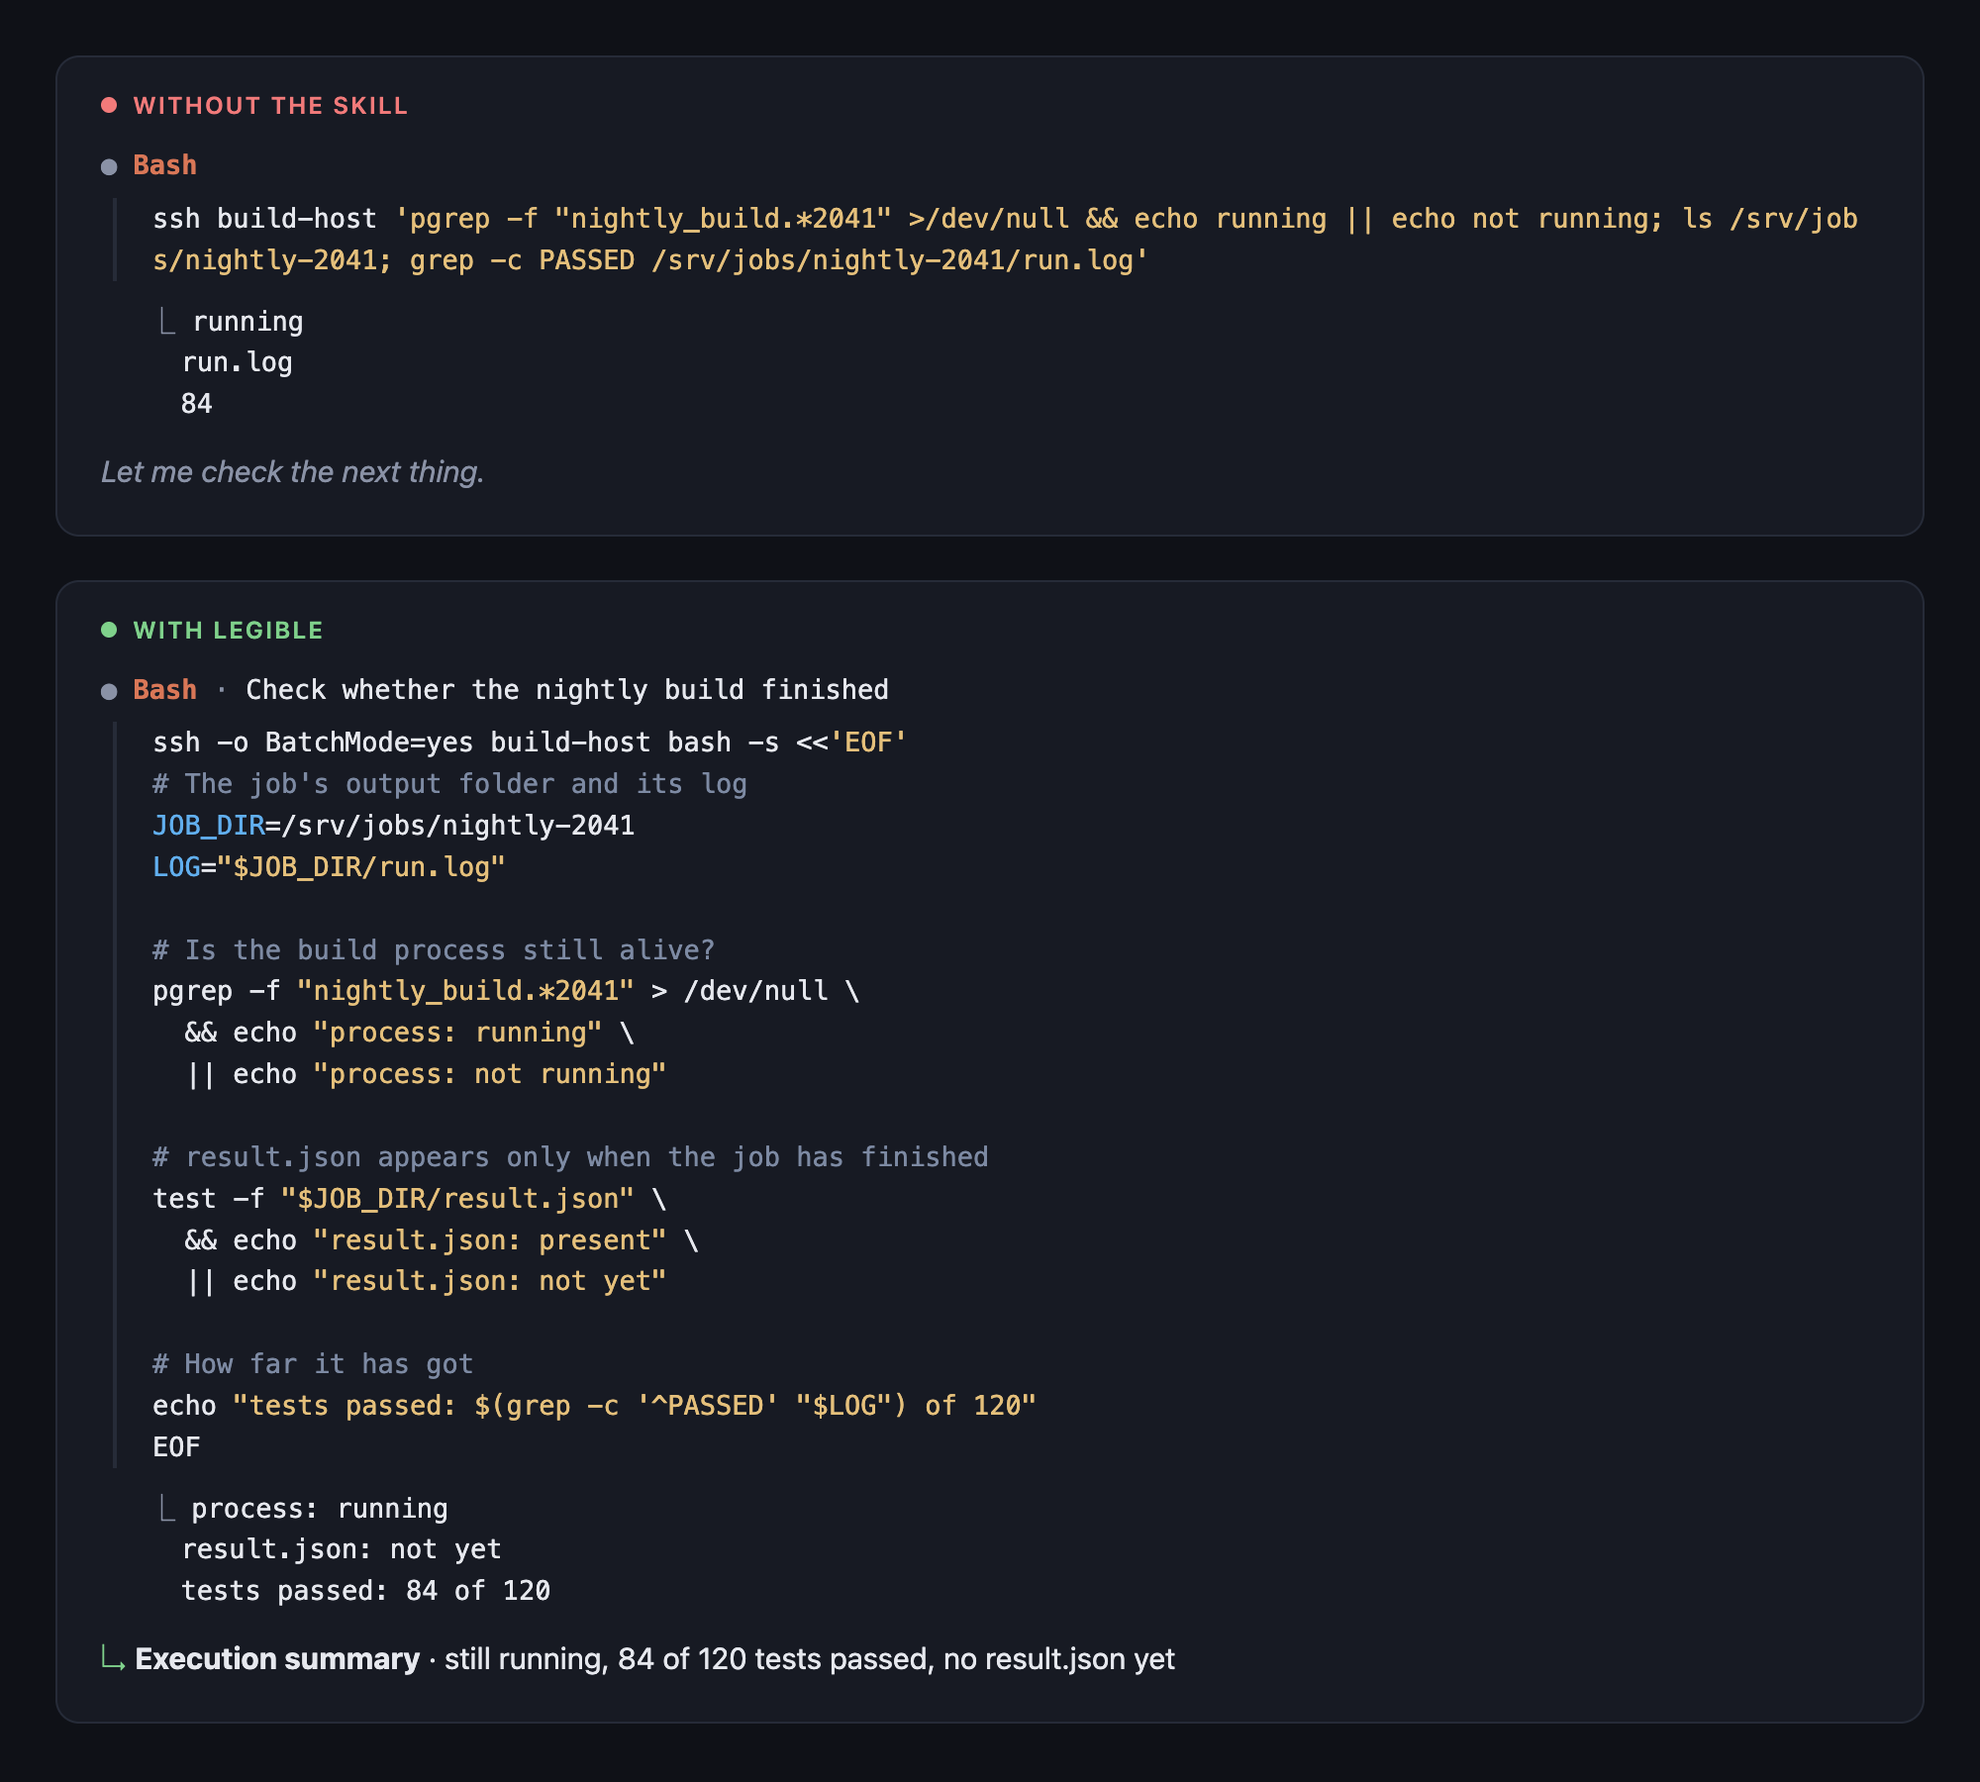
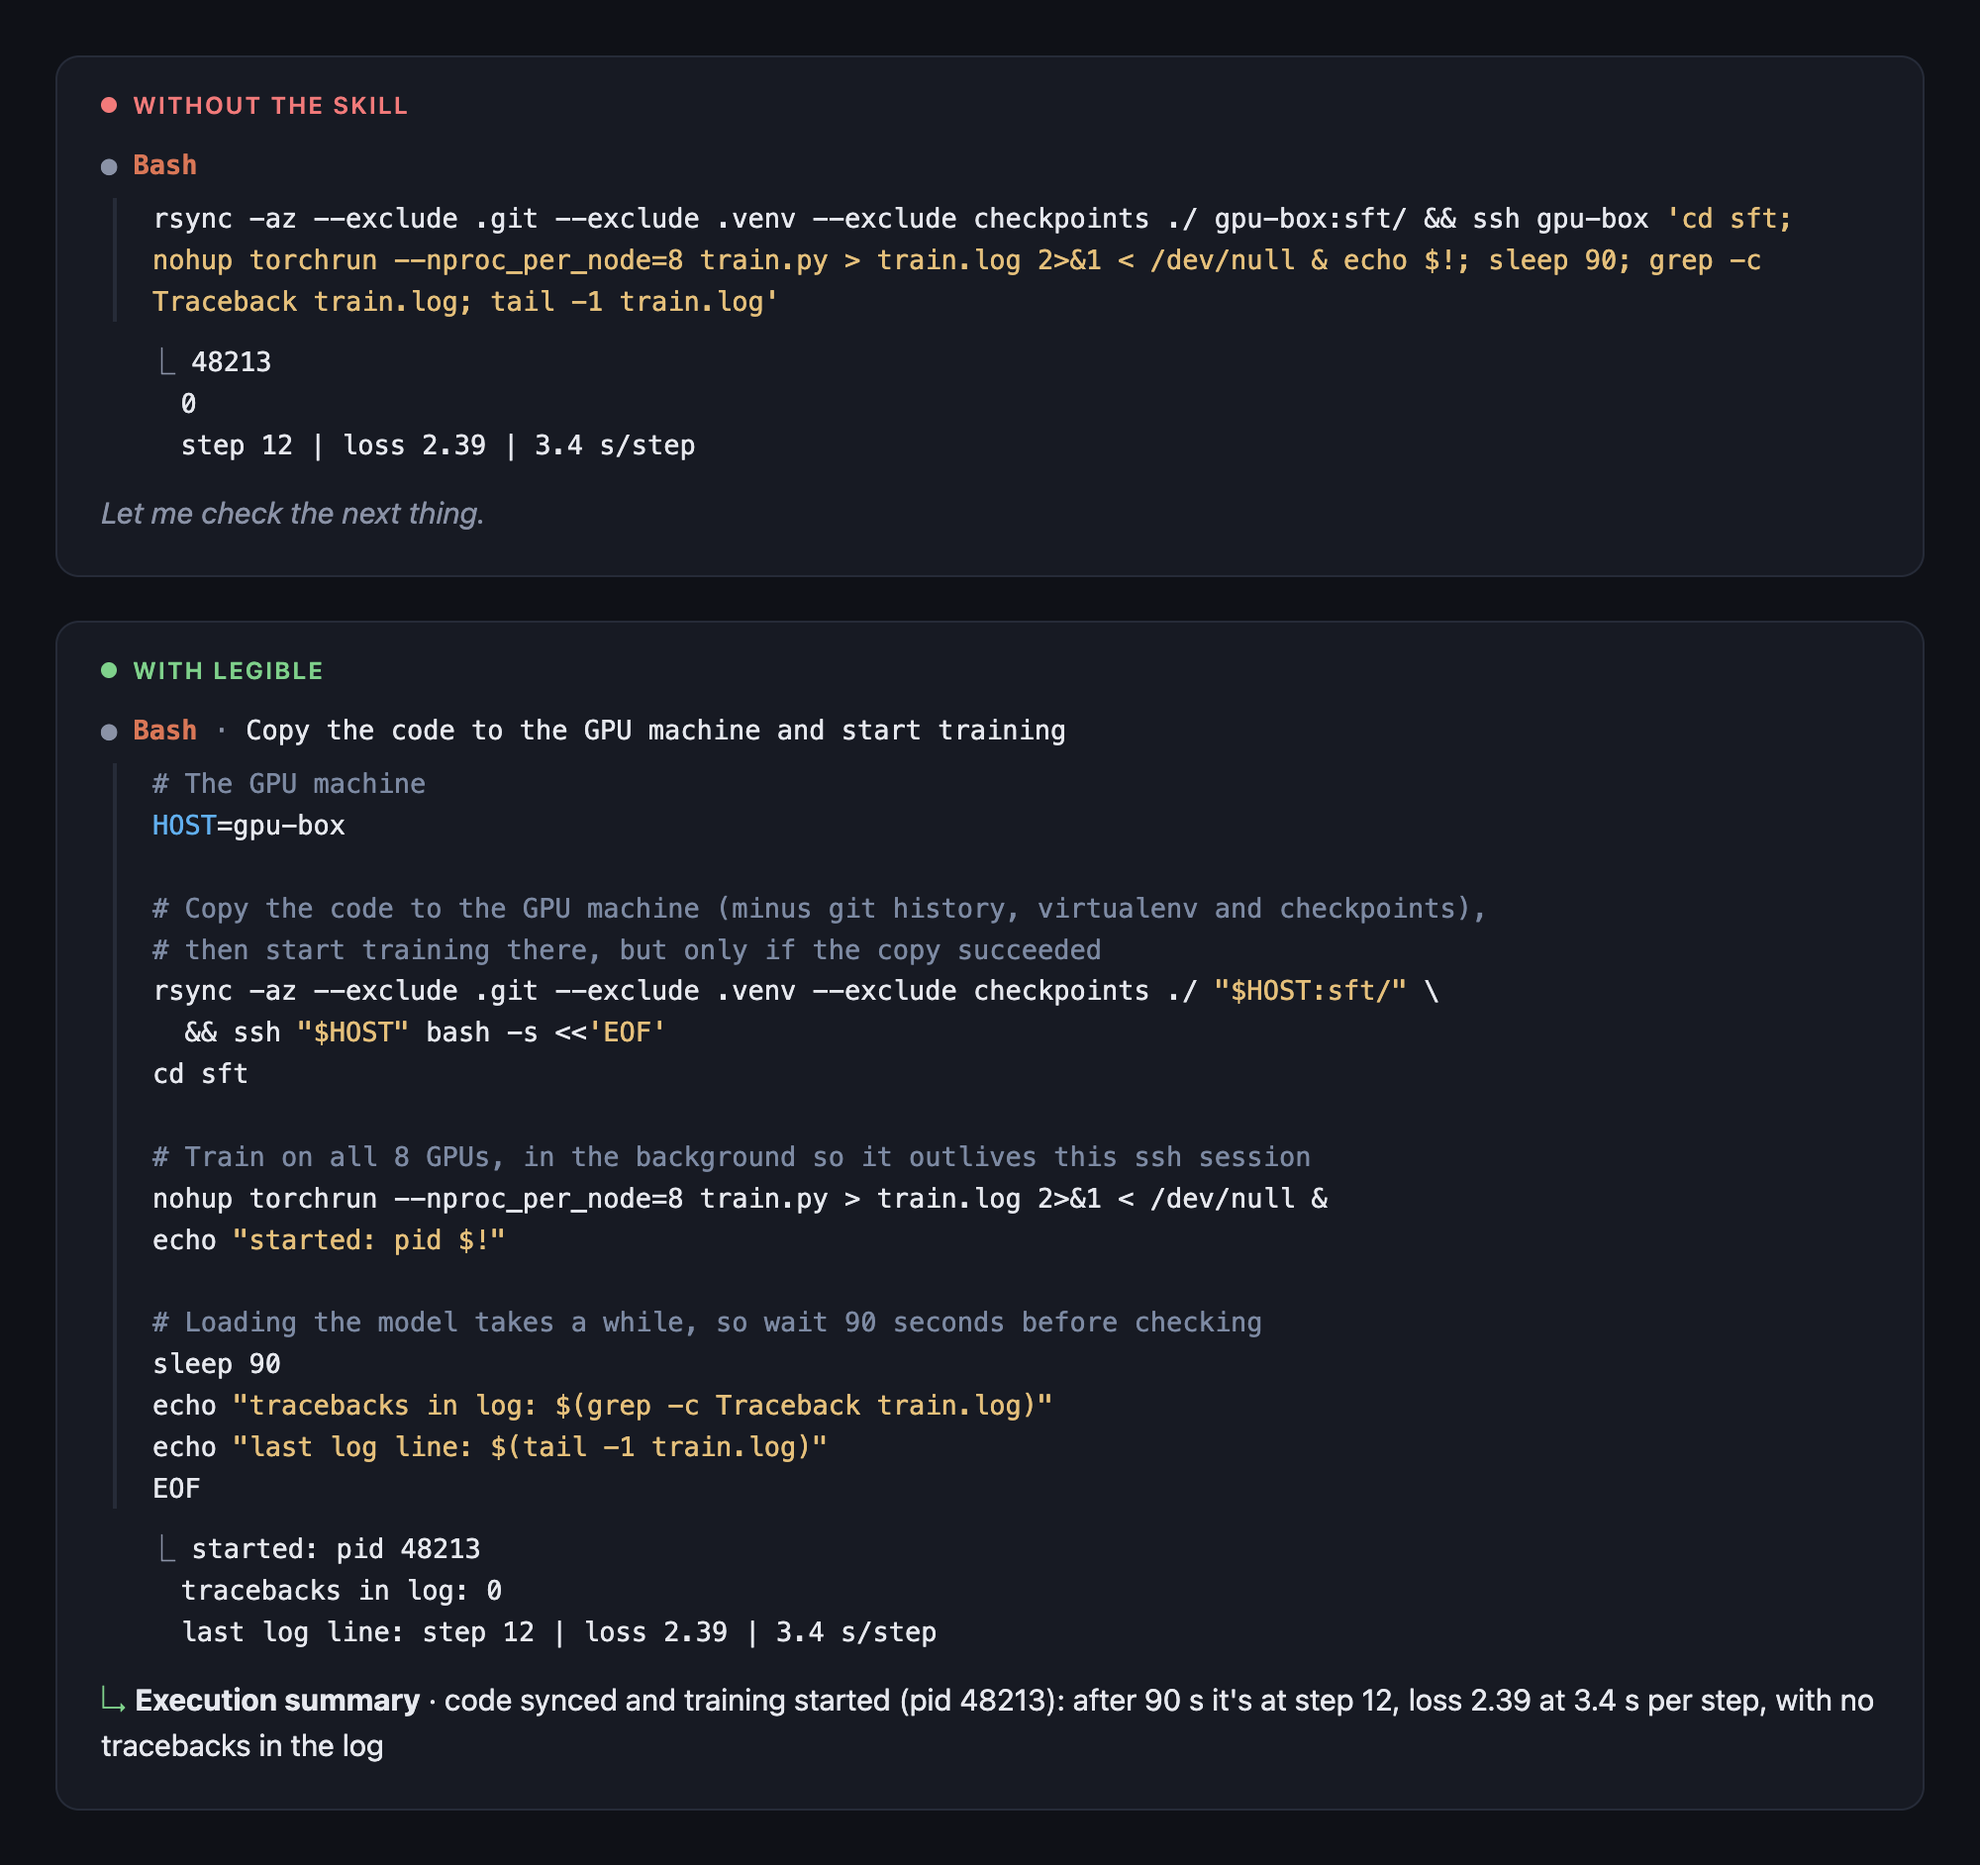
Use a training-run example in the README, skill and image
Replace the nightly-build status check with one command that copies
training code to a GPU machine, starts torchrun in the background and
checks on it. Both versions run the same commands; they were run
against a real host with a stand-in trainer to confirm the output.

diff --git a/assets/before-after.html b/assets/before-after.html
@@ -54,7 +54,7 @@
   pre {
     margin: 0;
     white-space: pre-wrap;
-    word-break: break-all;
+    overflow-wrap: anywhere;
     font: inherit;
   }
   .cmd { padding-left: 18px; border-left: 2px solid var(--line); margin: 0 0 10px 6px; }
@@ -80,38 +80,38 @@
 <div class="panel without">
   <div class="label"><span class="dot"></span>Without the skill</div>
   <div class="call">● <b>Bash</b></div>
-  <pre class="cmd">ssh build-host <span class="s">'pgrep -f "nightly_build.*2041" &gt;/dev/null &amp;&amp; echo running || echo not running; ls /srv/jobs/nightly-2041; grep -c PASSED /srv/jobs/nightly-2041/run.log'</span></pre>
-  <pre class="out"><span class="gutter">⎿ </span>running
-  run.log
-  84</pre>
+  <pre class="cmd">rsync -az --exclude .git --exclude .venv --exclude checkpoints ./ gpu-box:sft/ &amp;&amp; ssh gpu-box <span class="s">'cd sft; nohup torchrun --nproc_per_node=8 train.py &gt; train.log 2&gt;&amp;1 &lt; /dev/null &amp; echo $!; sleep 90; grep -c Traceback train.log; tail -1 train.log'</span></pre>
+  <pre class="out"><span class="gutter">⎿ </span>48213
+  0
+  step 12 | loss 2.39 | 3.4 s/step</pre>
   <div class="agent vague">Let me check the next thing.</div>
 </div>
 
 <div class="panel with">
   <div class="label"><span class="dot"></span>With Legible</div>
-  <div class="call">● <b>Bash</b> · <span class="desc">Check whether the nightly build finished</span></div>
-  <pre class="cmd">ssh -o BatchMode=yes build-host bash -s &lt;&lt;<span class="s">'EOF'</span>
-<span class="c"># The job's output folder and its log</span>
-<span class="v">JOB_DIR</span>=/srv/jobs/nightly-2041
-<span class="v">LOG</span>=<span class="s">"$JOB_DIR/run.log"</span>
+  <div class="call">● <b>Bash</b> · <span class="desc">Copy the code to the GPU machine and start training</span></div>
+  <pre class="cmd"><span class="c"># The GPU machine</span>
+<span class="v">HOST</span>=gpu-box
 
-<span class="c"># Is the build process still alive?</span>
-pgrep -f <span class="s">"nightly_build.*2041"</span> &gt; /dev/null \
-  &amp;&amp; echo <span class="s">"process: running"</span> \
-  || echo <span class="s">"process: not running"</span>
+<span class="c"># Copy the code to the GPU machine (minus git history, virtualenv and checkpoints),</span>
+<span class="c"># then start training there, but only if the copy succeeded</span>
+rsync -az --exclude .git --exclude .venv --exclude checkpoints ./ <span class="s">"$HOST:sft/"</span> \
+  &amp;&amp; ssh <span class="s">"$HOST"</span> bash -s &lt;&lt;<span class="s">'EOF'</span>
+cd sft
 
-<span class="c"># result.json appears only when the job has finished</span>
-test -f <span class="s">"$JOB_DIR/result.json"</span> \
-  &amp;&amp; echo <span class="s">"result.json: present"</span> \
-  || echo <span class="s">"result.json: not yet"</span>
+<span class="c"># Train on all 8 GPUs, in the background so it outlives this ssh session</span>
+nohup torchrun --nproc_per_node=8 train.py &gt; train.log 2&gt;&amp;1 &lt; /dev/null &amp;
+echo <span class="s">"started: pid $!"</span>
 
-<span class="c"># How far it has got</span>
-echo <span class="s">"tests passed: $(grep -c '^PASSED' "$LOG") of 120"</span>
+<span class="c"># Loading the model takes a while, so wait 90 seconds before checking</span>
+sleep 90
+echo <span class="s">"tracebacks in log: $(grep -c Traceback train.log)"</span>
+echo <span class="s">"last log line: $(tail -1 train.log)"</span>
 EOF</pre>
-  <pre class="out"><span class="gutter">⎿ </span>process: running
-  result.json: not yet
-  tests passed: 84 of 120</pre>
-  <div class="agent summary"><span class="arrow">↳</span> <b>Execution summary</b> · still running, 84 of 120 tests passed, no result.json yet</div>
+  <pre class="out"><span class="gutter">⎿ </span>started: pid 48213
+  tracebacks in log: 0
+  last log line: step 12 | loss 2.39 | 3.4 s/step</pre>
+  <div class="agent summary"><span class="arrow">↳</span> <b>Execution summary</b> · code synced and training started (pid 48213): after 90 s it's at step 12, loss 2.39 at 3.4 s per step, with no tracebacks in the log</div>
 </div>
 
 </body>

diff --git a/README.md b/README.md
@@ -10,11 +10,11 @@ When a coding agent works, it runs dozens of commands and edits, calls other ser
 
 ## Before and after
 
-The agent checks on a nightly test job running on another machine.
+In one command, the agent copies training code to a GPU machine, starts the run and checks on it.
 
-![The same status check without and with legible: a dense one-liner with unlabeled output, then a commented script with labeled output and an execution summary](assets/before-after.png)
+![The same command without and with legible: a dense one-liner with unlabeled output, then a commented script with labeled output and an execution summary](assets/before-after.png)
 
-Without the skill, you're left asking whether 84 is good and whether the job finished. With it, you can read the comments alone and know the plan, read the output alone and know the state, or read just the summary.
+Without the skill, you're left asking what 48213 and 0 mean. With it, you can read the comments alone and know the plan, read the output alone and know the state, or read just the summary.
 
 <details>
 <summary>The same example as text</summary>
@@ -22,47 +22,47 @@ Without the skill, you're left asking whether 84 is good and whether the job fin
 **Without the skill**
 
 ```bash
-ssh build-host 'pgrep -f "nightly_build.*2041" >/dev/null && echo running || echo not running; ls /srv/jobs/nightly-2041; grep -c PASSED /srv/jobs/nightly-2041/run.log'
+rsync -az --exclude .git --exclude .venv --exclude checkpoints ./ gpu-box:sft/ && ssh gpu-box 'cd sft; nohup torchrun --nproc_per_node=8 train.py > train.log 2>&1 < /dev/null & echo $!; sleep 90; grep -c Traceback train.log; tail -1 train.log'
 ```
 
 ```
-running
-run.log
-84
+48213
+0
+step 12 | loss 2.39 | 3.4 s/step
 ```
 
-Is 84 good? Did the job finish? You have to decode the command to find out, and the agent has already moved on.
+What is 48213? Is 0 good or bad? You have to decode the command to find out, and the agent has already moved on.
 
 **With the skill**
 
 ```bash
-ssh -o BatchMode=yes build-host bash -s <<'EOF'
-# The job's output folder and its log
-JOB_DIR=/srv/jobs/nightly-2041
-LOG="$JOB_DIR/run.log"
+# The GPU machine
+HOST=gpu-box
 
-# Is the build process still alive?
-pgrep -f "nightly_build.*2041" > /dev/null \
-  && echo "process: running" \
-  || echo "process: not running"
+# Copy the code to the GPU machine (minus git history, virtualenv and checkpoints),
+# then start training there, but only if the copy succeeded
+rsync -az --exclude .git --exclude .venv --exclude checkpoints ./ "$HOST:sft/" \
+  && ssh "$HOST" bash -s <<'EOF'
+cd sft
 
-# result.json appears only when the job has finished
-test -f "$JOB_DIR/result.json" \
-  && echo "result.json: present" \
-  || echo "result.json: not yet"
+# Train on all 8 GPUs, in the background so it outlives this ssh session
+nohup torchrun --nproc_per_node=8 train.py > train.log 2>&1 < /dev/null &
+echo "started: pid $!"
 
-# How far it has got
-echo "tests passed: $(grep -c '^PASSED' "$LOG") of 120"
+# Loading the model takes a while, so wait 90 seconds before checking
+sleep 90
+echo "tracebacks in log: $(grep -c Traceback train.log)"
+echo "last log line: $(tail -1 train.log)"
 EOF
 ```
 
 ```
-process: running
-result.json: not yet
-tests passed: 84 of 120
+started: pid 48213
+tracebacks in log: 0
+last log line: step 12 | loss 2.39 | 3.4 s/step
 ```
 
-↳ **Execution summary** · still running, 84 of 120 tests passed, no result.json yet
+↳ **Execution summary** · code synced and training started (pid 48213): after 90 s it's at step 12, loss 2.39 at 3.4 s per step, with no tracebacks in the log
 
 </details>
 
@@ -209,7 +209,7 @@ If you change the example, update `assets/before-after.html` to match and render
 ```bash
 # Render the updated example image with Chrome.
 "/Applications/Google Chrome.app/Contents/MacOS/Google Chrome" --headless=new --hide-scrollbars \
-  --force-device-scale-factor=2 --window-size=1000,900 \
+  --force-device-scale-factor=2 --window-size=1000,942 \
   --screenshot=assets/before-after.png "file://$PWD/assets/before-after.html"
 ```
 

diff --git a/skills/legible/SKILL.md b/skills/legible/SKILL.md
@@ -20,7 +20,7 @@ Apply it for the whole session. The usual failure is drift: summaries get droppe
 - **Use a heredoc script for remote or multi-step work**, not a quoted one-liner with escaped quotes: `ssh host bash -s <<'EOF'`. Quote the delimiter so variables expand on the remote side, and nest a different one (`<<'PY'`) for an inner script.
 - **Make waiting loops readable.** Say in a comment what ends the loop, and finish with a labeled line giving the outcome and the time.
 - **One purpose per command.** If a command does several unrelated things, split it or head each part with a comment.
-- **Describe it plainly.** If your tool asks for a short description of each command, say in plain words what it does ("Check whether the nightly build finished"). Don't repeat the command text.
+- **Describe it plainly.** If your tool asks for a short description of each command, say in plain words what it does ("Copy the code to the GPU machine and start training"). Don't repeat the command text.
 
 ## 2. Make command output readable on its own
 
@@ -65,35 +65,35 @@ If you find you dropped summaries earlier, say so, add the missing ones briefly,
 
 ## Examples
 
-A shell command: commented steps, named paths, labeled output, then the summary.
+A shell command: commented steps, the host named once, a heredoc for the remote part, labeled output, then the summary.
 
 ```bash
-ssh -o BatchMode=yes build-host bash -s <<'EOF'
-# The job's output folder and its log
-JOB_DIR=/srv/jobs/nightly-2041
-LOG="$JOB_DIR/run.log"
+# The GPU machine
+HOST=gpu-box
 
-# Is the build process still alive?
-pgrep -f "nightly_build.*2041" > /dev/null \
-  && echo "process: running" \
-  || echo "process: not running"
+# Copy the code to the GPU machine (minus git history, virtualenv and checkpoints),
+# then start training there, but only if the copy succeeded
+rsync -az --exclude .git --exclude .venv --exclude checkpoints ./ "$HOST:sft/" \
+  && ssh "$HOST" bash -s <<'EOF'
+cd sft
 
-# result.json appears only when the job has finished
-test -f "$JOB_DIR/result.json" \
-  && echo "result.json: present" \
-  || echo "result.json: not yet"
+# Train on all 8 GPUs, in the background so it outlives this ssh session
+nohup torchrun --nproc_per_node=8 train.py > train.log 2>&1 < /dev/null &
+echo "started: pid $!"
 
-# How far it has got
-echo "tests passed: $(grep -c '^PASSED' "$LOG") of 120"
+# Loading the model takes a while, so wait 90 seconds before checking
+sleep 90
+echo "tracebacks in log: $(grep -c Traceback train.log)"
+echo "last log line: $(tail -1 train.log)"
 EOF
 ```
 
-↳ **Execution summary** · still running, 84 of 120 tests passed, no result.json yet
+↳ **Execution summary** · code synced and training started (pid 48213): after 90 s it's at step 12, loss 2.39 at 3.4 s per step, with no tracebacks in the log
 
-The same check written the hard-to-read way:
+The same command written the hard-to-read way:
 
 ```bash
-ssh build-host 'pgrep -f "nightly_build.*2041" >/dev/null && echo running || echo not running; ls /srv/jobs/nightly-2041; grep -c PASSED /srv/jobs/nightly-2041/run.log'
+rsync -az --exclude .git --exclude .venv --exclude checkpoints ./ gpu-box:sft/ && ssh gpu-box 'cd sft; nohup torchrun --nproc_per_node=8 train.py > train.log 2>&1 < /dev/null & echo $!; sleep 90; grep -c Traceback train.log; tail -1 train.log'
 ```
 
 Summaries after other kinds of call:
